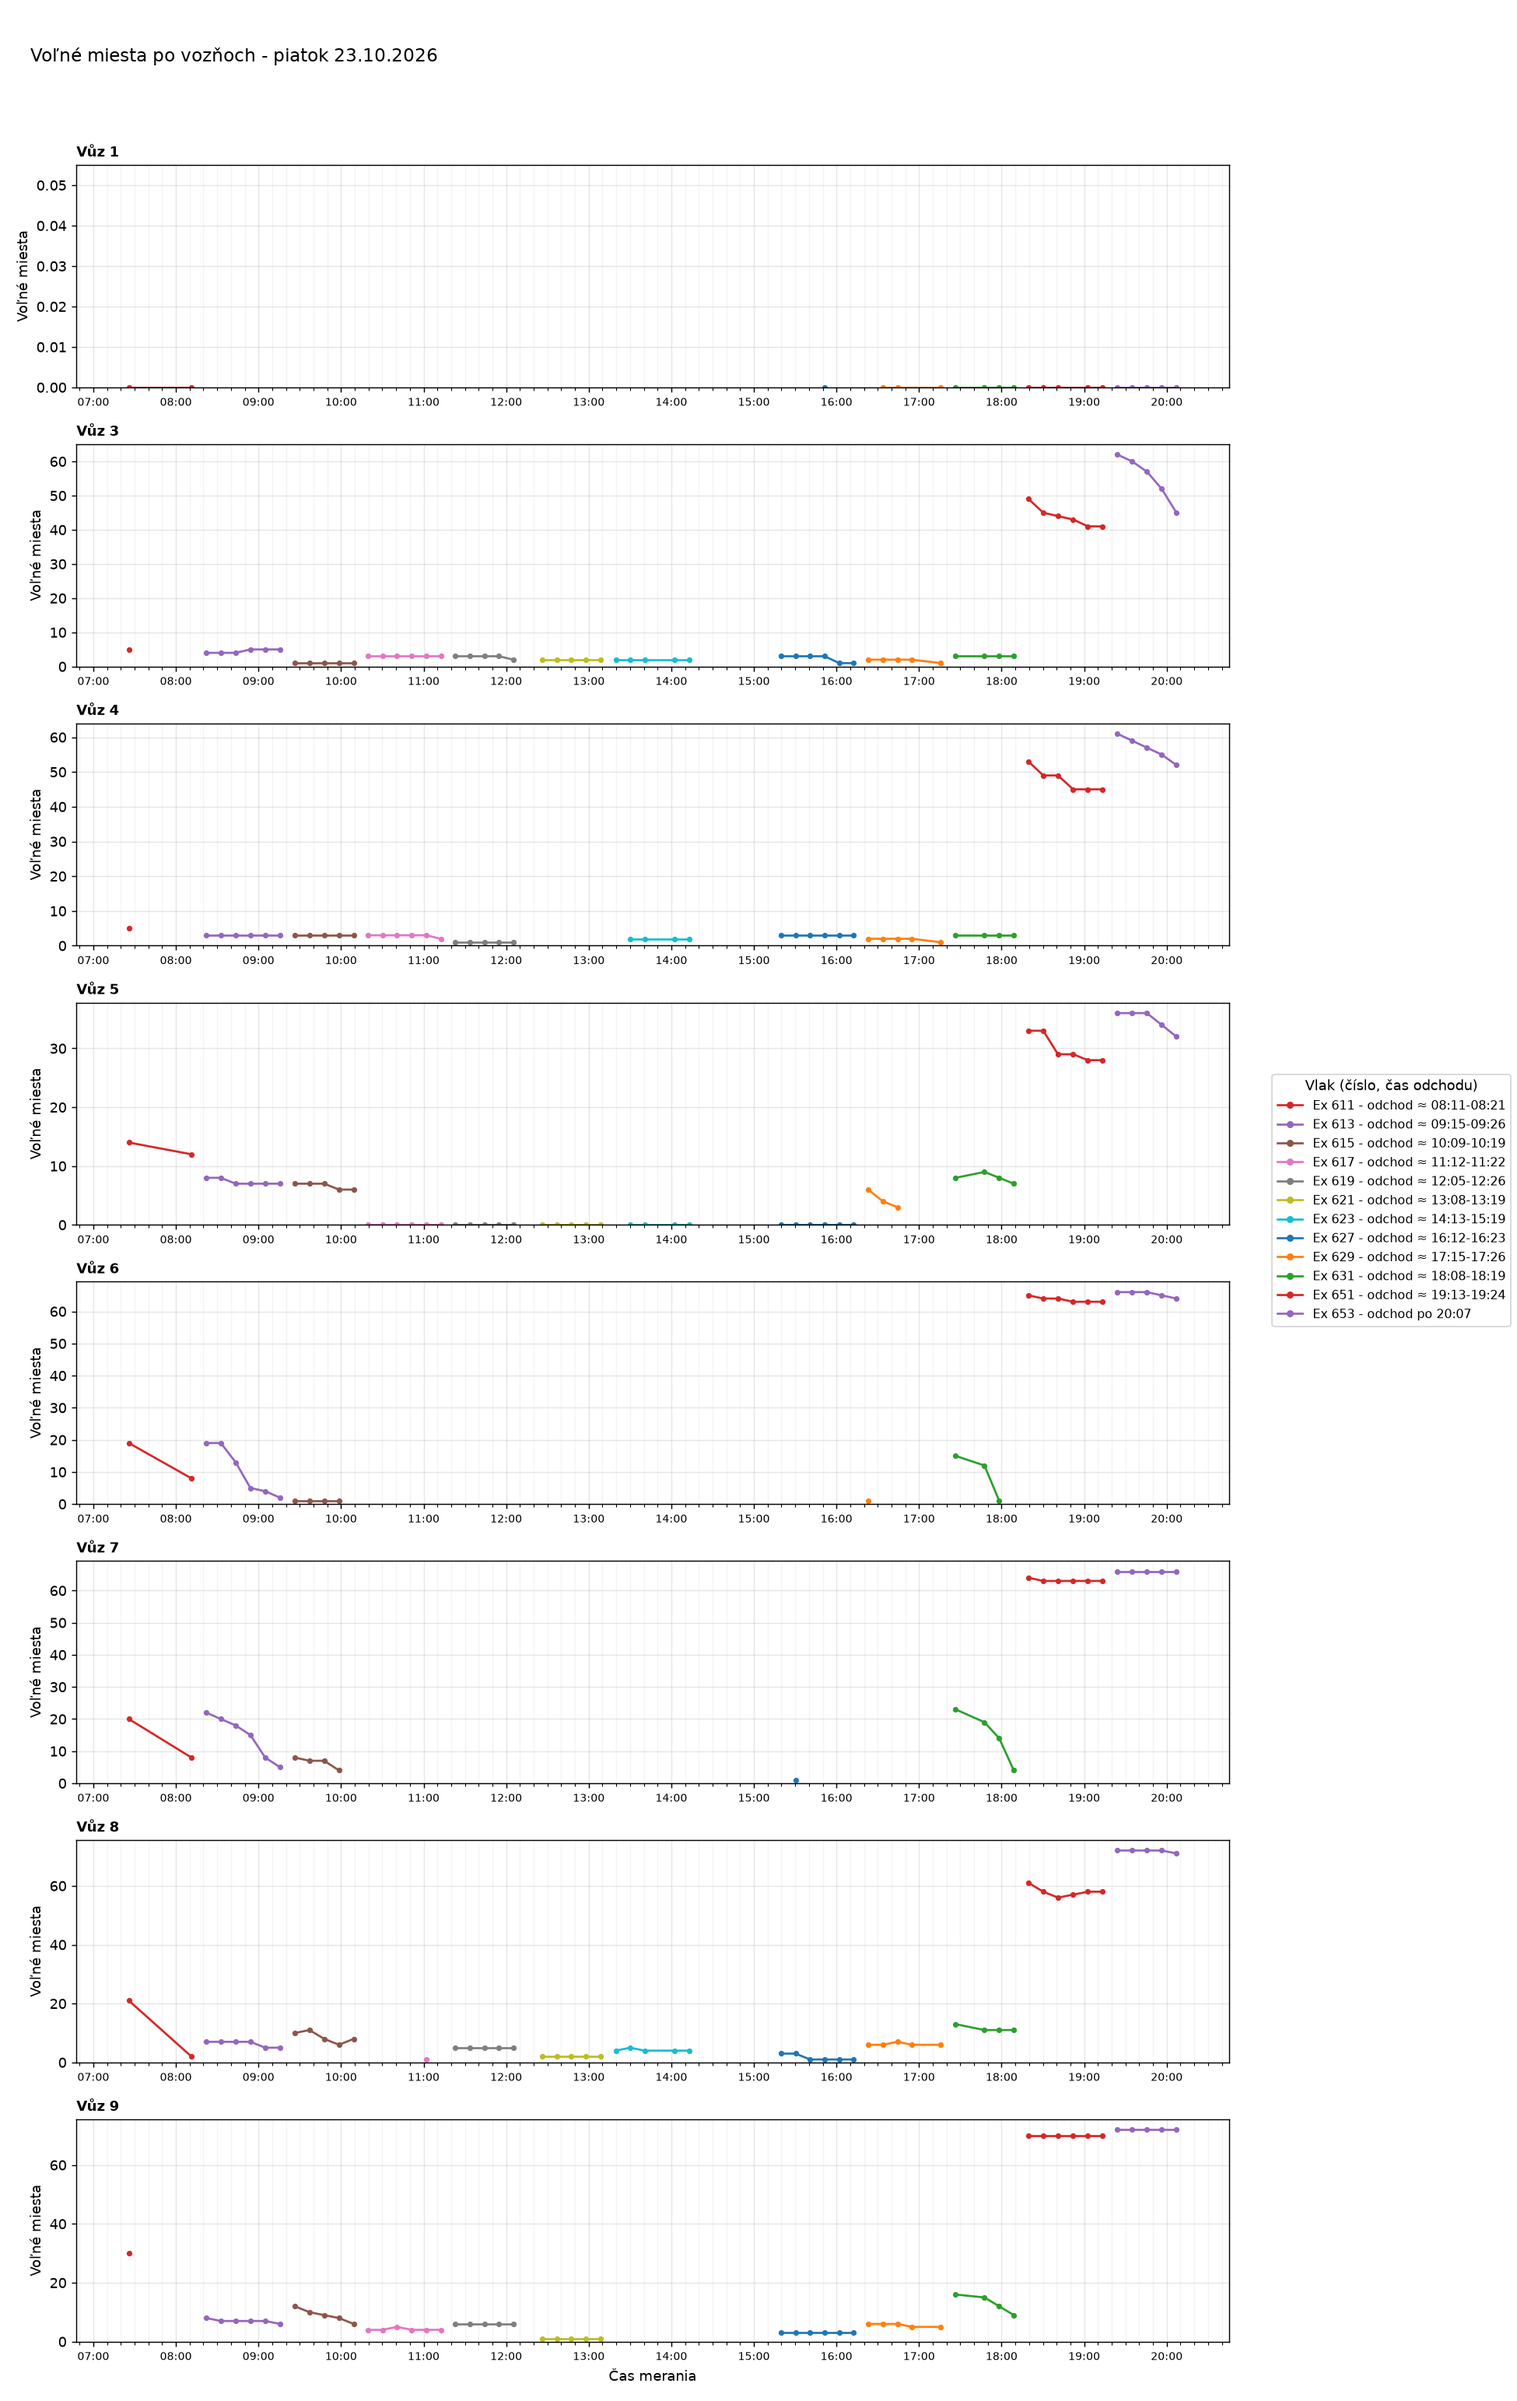
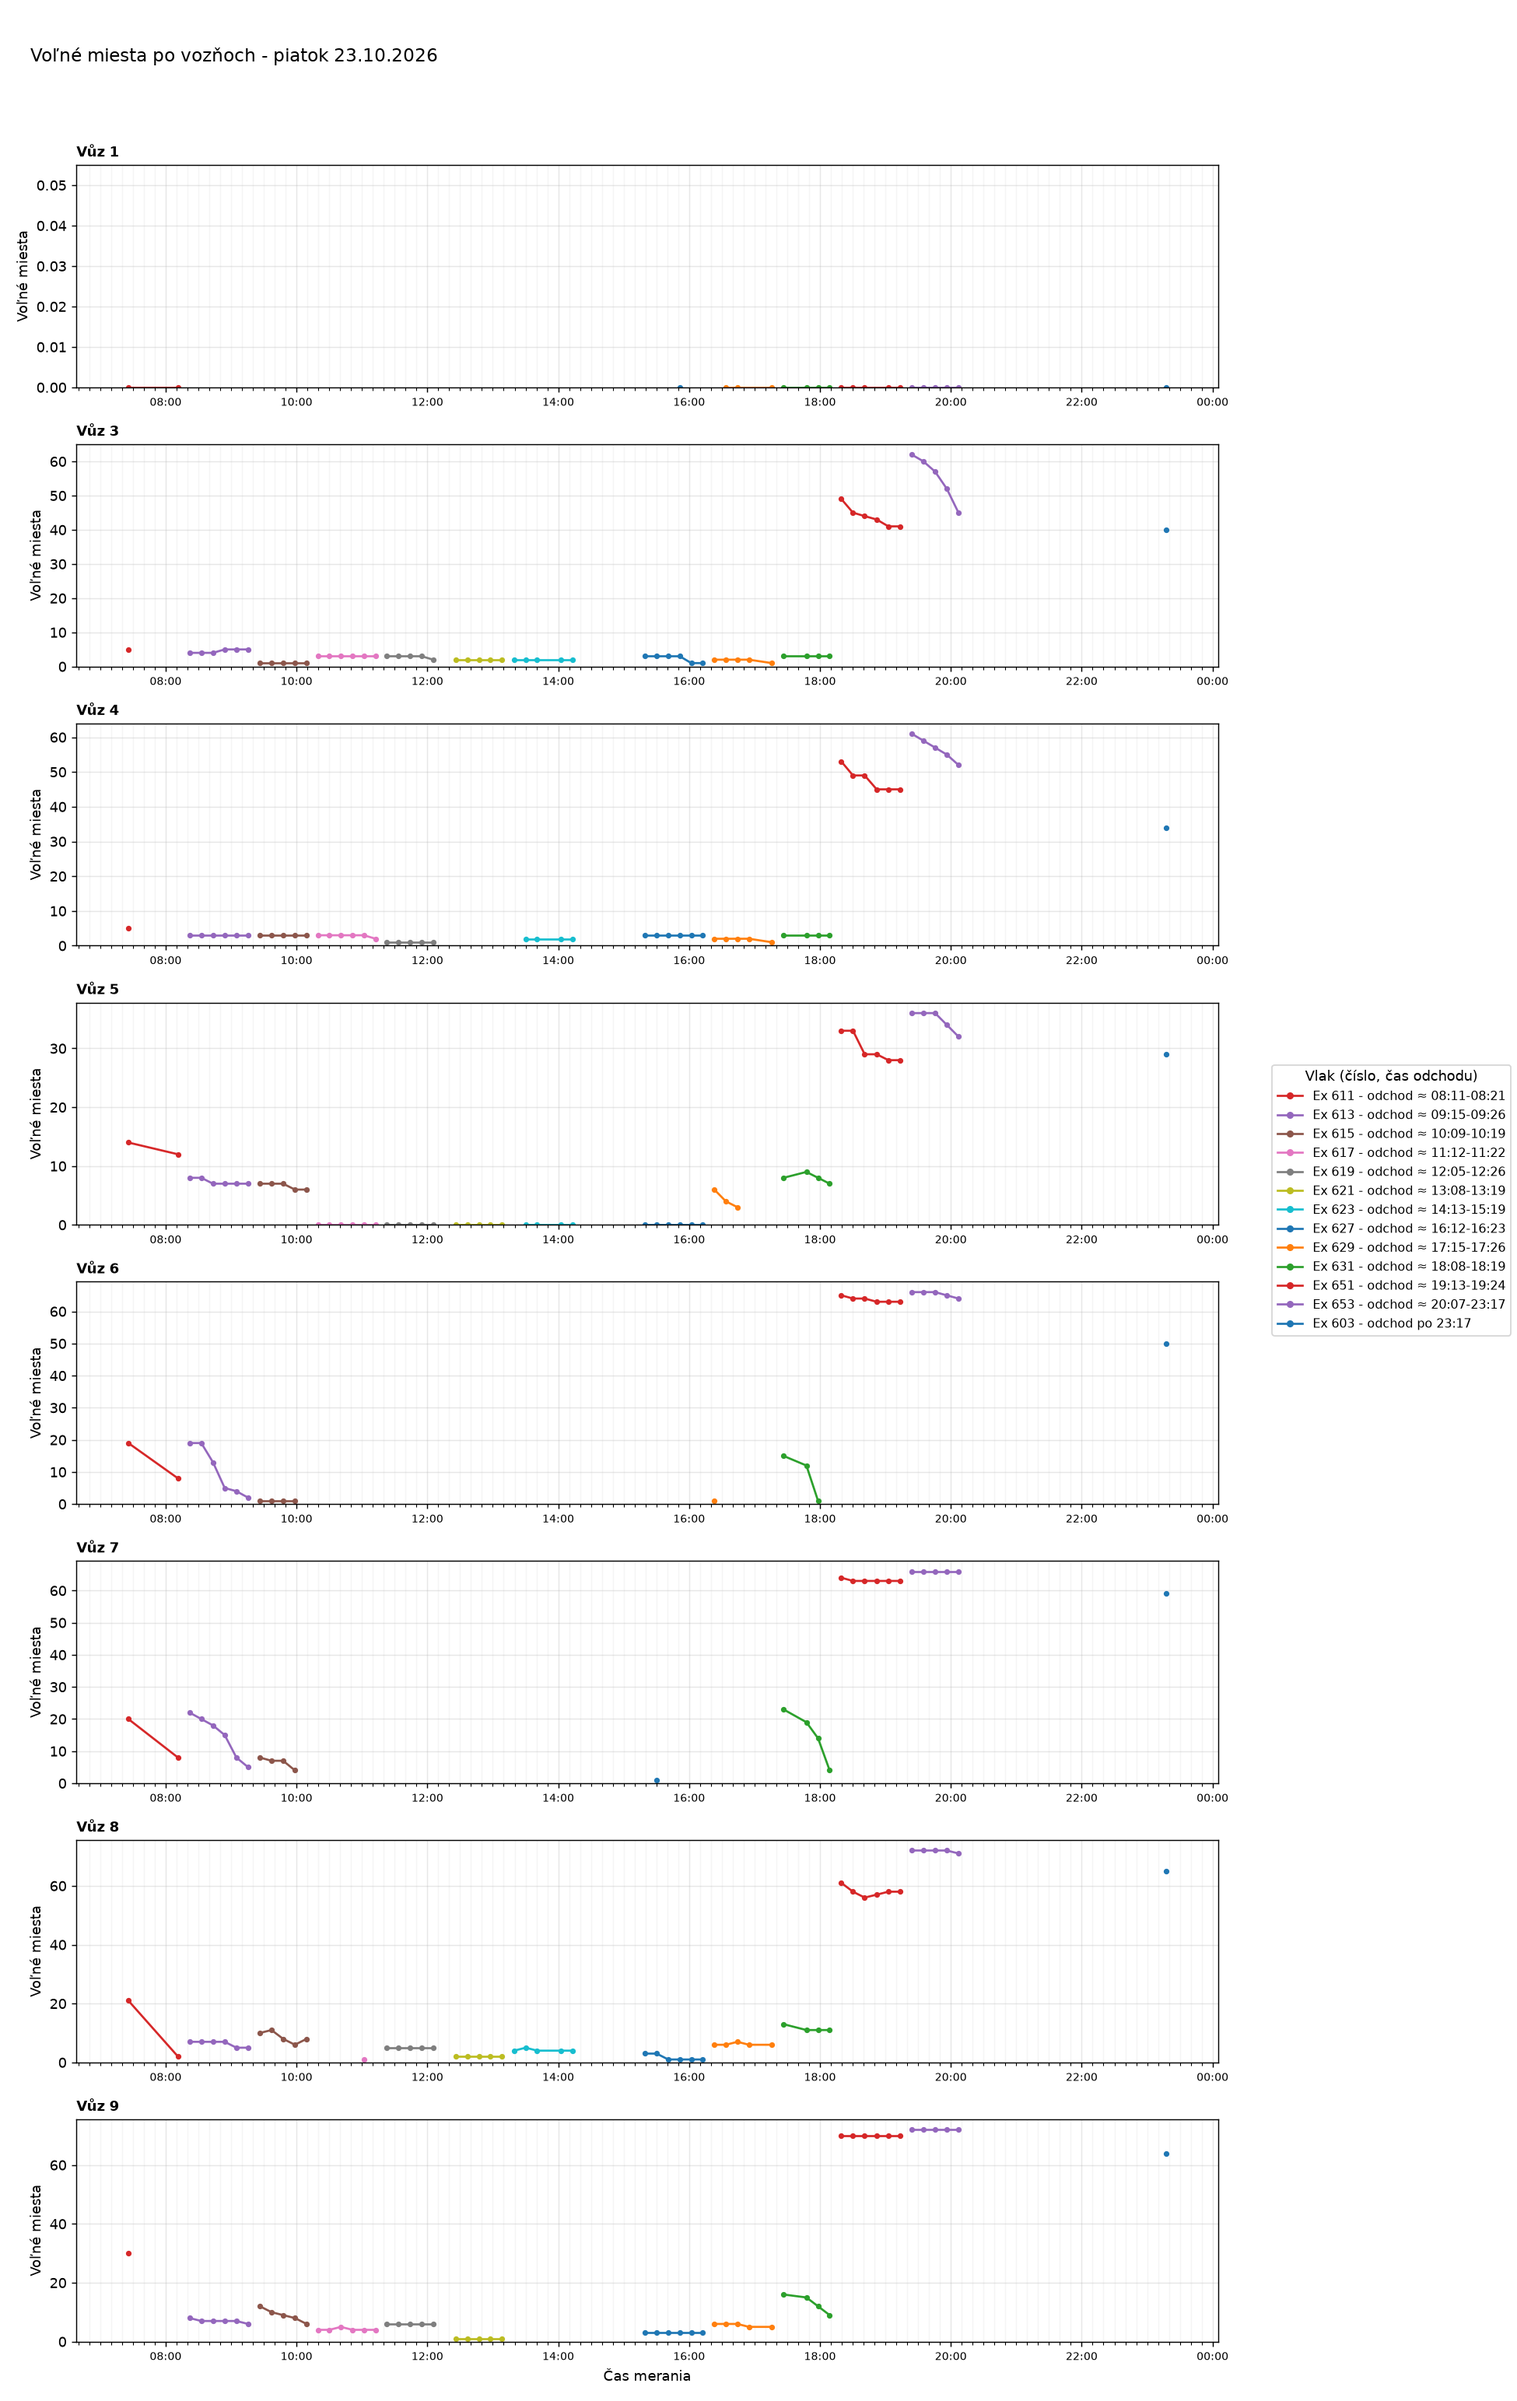
Aktualizácia grafov 2026-10-23 23:23

diff --git a/index.html b/index.html
@@ -35,7 +35,7 @@ h2.oddiel{margin:36px 0 0;font-size:1.4rem}
 <body>
 <main>
 <h1>Voľné miesta vo vlakoch</h1>
-<p class="muted">Posledné meranie: 23.10.2026 20:07 ·
+<p class="muted">Posledné meranie: 23.10.2026 23:17 ·
 <a href="data/obsadenost_data.csv">stiahnuť dáta (CSV)</a></p>
 <nav class="nav"><a href="#suhrn">Súhrn</a><a href="#statistiky">Štatistiky</a><a href="#historia">História grafov</a></nav>
 
@@ -44,7 +44,7 @@ h2.oddiel{margin:36px 0 0;font-size:1.4rem}
 <div class="tablewrap"><table>
 <thead><tr><th>Deň</th><th>Meraní</th><th>Vlakov</th><th>Čas meraní</th></tr></thead>
 <tbody>
-<tr><td><a href="#d2026-10-23">piatok 23.10.2026</a></td><td>60</td><td>12</td><td>07:25-20:07</td></tr>
+<tr><td><a href="#d2026-10-23">piatok 23.10.2026</a></td><td>61</td><td>13</td><td>07:25-23:17</td></tr>
 <tr><td><a href="#d2026-10-22">štvrtok 22.10.2026</a></td><td>80</td><td>11</td><td>00:08-16:10</td></tr>
 <tr><td><a href="#d2026-10-21">streda 21.10.2026</a></td><td>96</td><td>15</td><td>00:10-23:58</td></tr>
 <tr><td><a href="#d2026-10-20">utorok 20.10.2026</a></td><td>34</td><td>7</td><td>13:55-23:50</td></tr>
